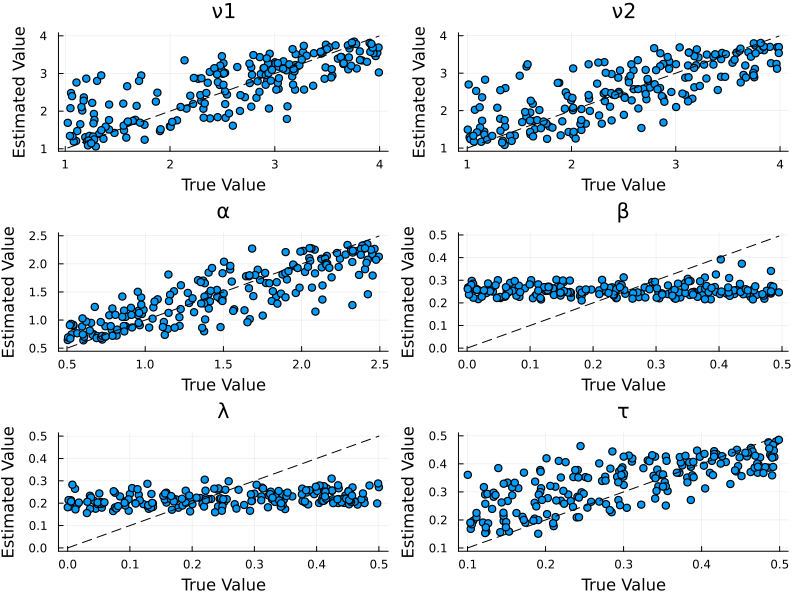
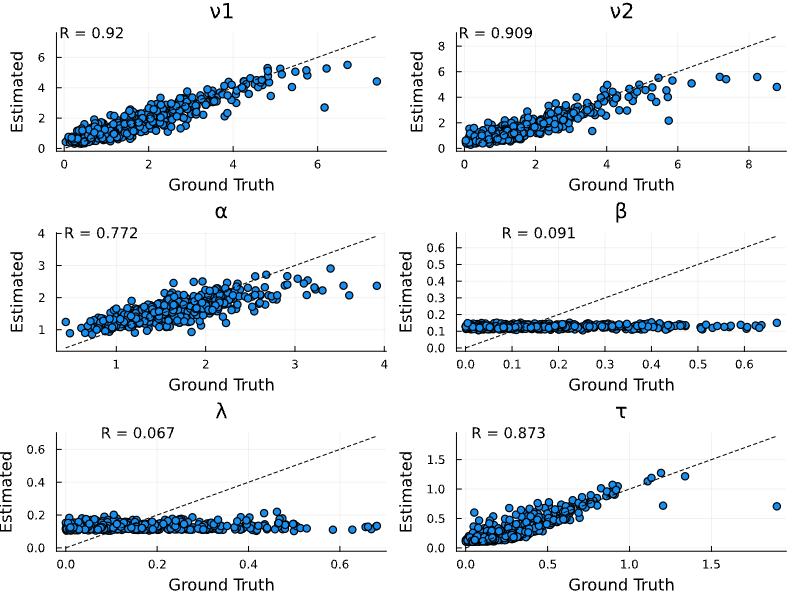
Add enhance documentation for neural parameter estimation

diff --git a/docs/src/neuralestimators_amorized.md b/docs/src/neuralestimators_amorized.md
@@ -1,6 +1,6 @@
 # Neural Parameter Estimation
 
-Neural parameter estimation provides a likelihood-free approach to parameter recovery, especially useful for models with computationally intractable likelihoods. This method is based on training neural networks to learn the mapping from data to parameters. See the review paper by Zammit-Mangion et al. (2025) for more details. Once trained, these networks can perform inference rapidly across multiple datasets, making them particularly valuable for models like the Leaky Competing Accumulator (LCA; Usher & McClelland, 2001).
+Neural parameter estimation uses neural networks to perform parameter estimation by learning the mapping between simulated data and model parameters (for a detailed review, see Zammit-Mangion et al., 2024). Neural parameter estimation is particularly useful for models with computationally intractable likelihoods, such as the Leaky Competing Accumulator (LCA; Usher & McClelland, 2001). Once trained, neural networks can be saved and reused to perform inference rapidly across multiple datasets, or used for computationally intensive parameter recovery simulations to understand the quality of parameter estimates under ideal conditions.
 
 Below, we demonstrate how to estimate parameters of the LCA model using the [NeuralEstimators.jl](https://github.com/msainsburydale/NeuralEstimators) package.
 
@@ -24,7 +24,12 @@ Random.seed!(123)
 
 ## Define Parameter Sampling
 
-Unlike traditional Bayesian inference methods, simulation-based inference approaches require us to define a prior sampling function specifically to generate synthetic training data. While traditional methods like MCMC also sample from the prior, those samples are used directly during inference rather than to create a separate training dataset. In SBI, we use the prior to sample a wide range of parameters and simulate corresponding data, which we then use to train a model (e.g., a neural network) to approximate the posterior. We will use the following function to sample a range of parameters for training:
+Unlike traditional Bayesian inference methods, neural parameter estimation requires us to define two functions so that the neural network can learn the mapping between simulated data and parameters. One function samples parameters from a prior distribution, and the other generates simulated data based on a sampled parameter vector. While traditional methods like MCMC also sample from the prior, those samples are used directly during inference rather than to create a separate training dataset. 
+
+![](assets/npe_example.png)
+*Schematic of neural parameter estimation. Once trained, the neural network provides a direct mapping from observed data (Z) to parameter estimates (θ̂), enabling rapid inference without the computational burden of traditional methods.*
+
+In neural parameter estimation, we use the prior to sample a wide range of parameters and simulate corresponding data, which we then use to train a model (e.g., a neural network) to approximate a point estimate or the posterior. We use the following function to sample a range of parameters for training:
 
 ```julia 
 # Function to sample parameters from priors
@@ -63,7 +68,8 @@ function simulate(θ, n_trials_per_param)
         choices, rts = rand(model, n_trials_per_param)
         
         # Return as a transpose matrix where each column is a trial 
-        return [choices rts]'
+        return Float32.([choices rts]')
+
     end
     
     return simulated_data
@@ -77,11 +83,11 @@ For LCA parameter recovery, we use a DeepSet architecture which respects the per
 ```julia 
 # Create neural network architecture for parameter recovery
 function create_neural_estimator(;
-    ν_bounds = (0.1, 4.0),
-    α_bounds = (0.5, 3.5),
-    β_bounds = (0.0, 0.5),
-    λ_bounds = (0.0, 0.5),
-    τ_bounds = (0.1, 0.5)
+    ν_bounds = (0.1, 6.0),
+    α_bounds = (0.3, 4.5),
+    β_bounds = (0.0, 0.8),
+    λ_bounds = (0.0, 0.8),
+    τ_bounds = (0.100, 2.0)
 )
     # Unpack defined parameter Bounds
     ν_min, ν_max = ν_bounds              # Drift rates
@@ -132,6 +138,8 @@ function create_neural_estimator(;
 end
 ```
 
+The result of our constructed neural network is a point estimator that corresponds to a Bayes estimator, which is a functional of the posterior distribution. Under the specified loss function, this point estimate corresponds to the posterior mean. For details on the theoretical foundations of neural Bayes estimators, see Sainsbury-Dale et al. (2024).
+
 ## Training the Neural Estimator
 
 Neural estimators, like all deep learning methods, require a training phase during which they learn the mapping from data to parameters. Here, we train the estimator by simulating data on the fly: the sampler provides new parameter vectors from the prior, and the simulator generates corresponding data conditional on those parameters. Since we use online training and the network never sees the same simulated dataset twice, overfitting is less likely. For more details on training, see the API for arguments [here](https://msainsburydale.github.io/NeuralEstimators.jl/dev/API/core/#Training).
@@ -163,9 +171,9 @@ We can assess the performance of our trained estimator on held-out test data:
 
 ```julia 
 # Generate test data
-n_test = 100
+n_test = 500
 θ_test = sample(n_test)
-Z_test = simulate(θ_test, 100)
+Z_test = simulate(θ_test, 500)
 
 # Assess the estimator
 parameter_names = ["ν1", "ν2", "α", "β", "λ", "τ"]
@@ -197,17 +205,34 @@ p_plots = []
 
 for param in params
     param_data = filter(row -> row.parameter == param, df)
+    
+    # Calculate correlation coefficient
+    truth = param_data.truth
+    estimate = param_data.estimate
+    correlation = cor(truth, estimate)
+    
+    # Create plot
     p = scatter(
-        param_data.truth, 
-        param_data.estimate,
+        truth, 
+        estimate,
         xlabel="Ground Truth",
         ylabel="Estimated",
         title=param,
         legend=false
     )
-    plot!(p, [minimum(param_data.truth), maximum(param_data.truth)], 
-          [minimum(param_data.truth), maximum(param_data.truth)], 
+    
+    # Add diagonal reference line
+    plot!(p, [minimum(truth), maximum(truth)], 
+          [minimum(truth), maximum(truth)], 
           line=:dash, color=:black)
+    
+    # Get current axis limits after plot is created
+    x_min, x_max = xlims(p)
+    y_min, y_max = ylims(p)
+    
+    # Position text at the top-left corner of the plot
+    annotate!(p, x_min + 0.1, y_max, text("R = $(round(correlation, digits=3))", :left, 10))
+    
     push!(p_plots, p)
 end
 
@@ -228,7 +253,6 @@ Once trained, the estimator can instantly recover parameters from new data via a
 β = 0.2
 λ = 0.1
 τ = 0.3
-σ = 1.0
 
 # Create model and generate data
 true_model = LCA(; ν, α, β, λ, τ)
@@ -247,7 +271,7 @@ println("Recovered parameters: ", recovered_params)
 
 ## Notes on Performance
 
-Neural estimators are particularly effective for models with computationally intractable likelihoods like the LCA model. However, certain parameters (particularly β and λ) can be difficult to recover, even with advanced neural network architectures. This is a  property of the LCA model rather than a limitation of the estimation technique. 
+Neural estimators are particularly effective for models with computationally intractable likelihoods like the LCA model. However, certain parameters (particularly β and λ) can be difficult to recover, even with advanced neural network architectures. This is a property of the LCA model rather than a limitation of the estimation technique. 
 
 Additional details can be found in the [NeuralEstimators.jl documentation](https://github.com/msainsburydale/NeuralEstimators).
 
@@ -296,7 +320,7 @@ function simulate(θ, n_trials_per_param)
         choices, rts = rand(model, n_trials_per_param)
         
         # Return as a transpose matrix where each column is a trial 
-        return [choices rts]'
+        return Float32.([choices rts]')
 
     end
     
@@ -305,11 +329,11 @@ end
 
 # Create neural network architecture for parameter recovery
 function create_neural_estimator(;
-    ν_bounds = (0.1, 4.0),
-    α_bounds = (0.5, 3.5),
-    β_bounds = (0.0, 0.5),
-    λ_bounds = (0.0, 0.5),
-    τ_bounds = (0.1, 0.5)
+    ν_bounds = (0.1, 6.0),
+    α_bounds = (0.3, 4.5),
+    β_bounds = (0.0, 0.8),
+    λ_bounds = (0.0, 0.8),
+    τ_bounds = (0.100, 2.0)
 )
     # Unpack defined parameter Bounds
     ν_min, ν_max = ν_bounds              # Drift rates
@@ -379,9 +403,9 @@ trained_estimator = train(
 )
 
 # Generate test data
-n_test = 100
+n_test = 500
 θ_test = sample(n_test)
-Z_test = simulate(θ_test, 100)
+Z_test = simulate(θ_test, 500)
 
 # Assess the estimator
 parameter_names = ["ν1", "ν2", "α", "β", "λ", "τ"]
@@ -407,17 +431,34 @@ p_plots = []
 
 for param in params
     param_data = filter(row -> row.parameter == param, df)
+    
+    # Calculate correlation coefficient
+    truth = param_data.truth
+    estimate = param_data.estimate
+    correlation = cor(truth, estimate)
+    
+    # Create plot
     p = scatter(
-        param_data.truth, 
-        param_data.estimate,
+        truth, 
+        estimate,
         xlabel="Ground Truth",
         ylabel="Estimated",
         title=param,
         legend=false
     )
-    plot!(p, [minimum(param_data.truth), maximum(param_data.truth)], 
-          [minimum(param_data.truth), maximum(param_data.truth)], 
+    
+    # Add diagonal reference line
+    plot!(p, [minimum(truth), maximum(truth)], 
+          [minimum(truth), maximum(truth)], 
           line=:dash, color=:black)
+    
+    # Get current axis limits after plot is created
+    x_min, x_max = xlims(p)
+    y_min, y_max = ylims(p)
+    
+    # Position text at the top-left corner of the plot
+    annotate!(p, x_min + 0.1, y_max, text("R = $(round(correlation, digits=3))", :left, 10))
+    
     push!(p_plots, p)
 end
 
@@ -431,7 +472,6 @@ display(p_combined)
 β = 0.2
 λ = 0.1
 τ = 0.3
-σ = 1.0
 
 # Create model and generate data
 true_model = LCA(; ν, α, β, λ, τ)
